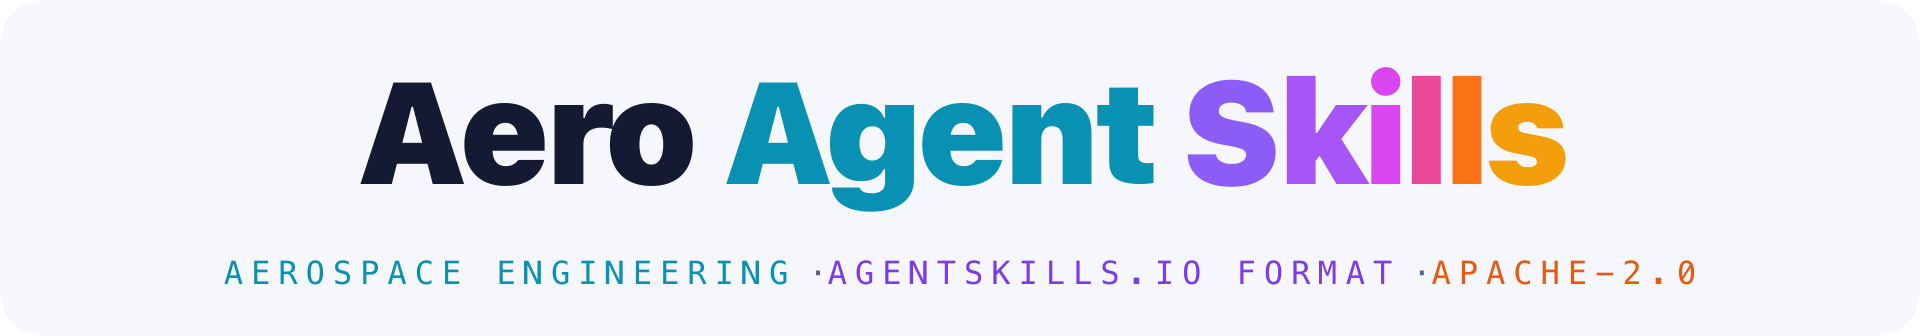
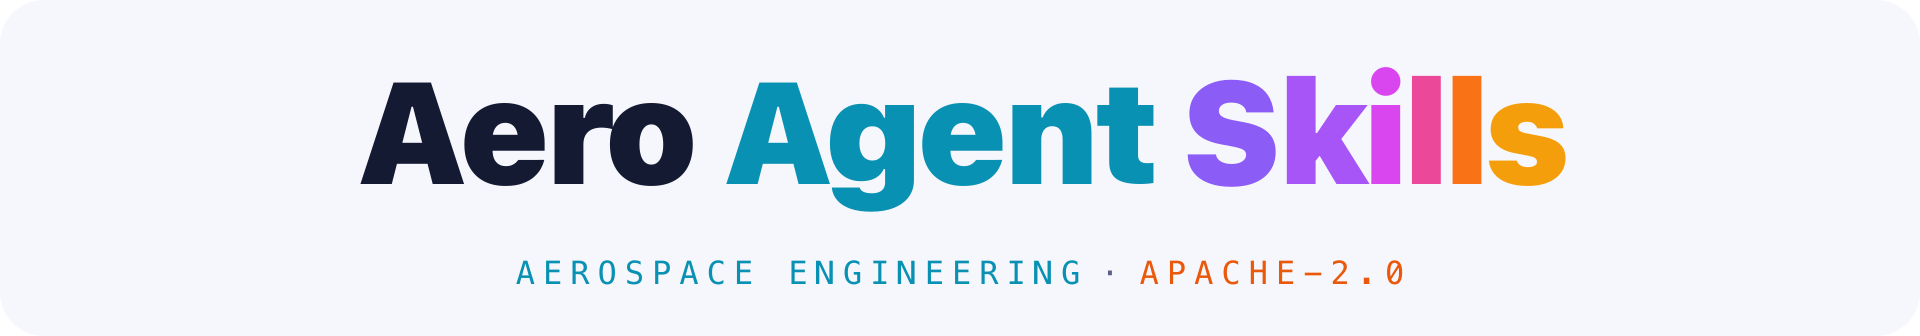
title tile: drop AGENTSKILLS.IO FORMAT from the descriptor line (founder: "remove the Agentskills.io format from here"), even-space the separator dot; regen title PNGs/SVGs

Changed region(s): [[0.0938, 0.7738, 0.9062, 0.8631]]

diff --git a/scripts/gen_visuals.py b/scripts/gen_visuals.py
@@ -566,9 +566,7 @@ def gen_title(t):
              f'font-size="16" letter-spacing="4">'
              f'<tspan fill="{t["cyan"]}">AEROSPACE ENGINEERING</tspan>'
              f'<tspan fill="{t["pencil"]}" dx="10">·</tspan>'
-             f'<tspan fill="{t["violet"]}">AGENTSKILLS.IO FORMAT</tspan>'
-             f'<tspan fill="{t["pencil"]}" dx="10">·</tspan>'
-             f'<tspan fill="{t["orange"]}">APACHE-2.0</tspan></text>')
+             f'<tspan fill="{t["orange"]}" dx="10">APACHE-2.0</tspan></text>')
     o.append("</svg>")
     return "\n".join(o) + "\n"
 
